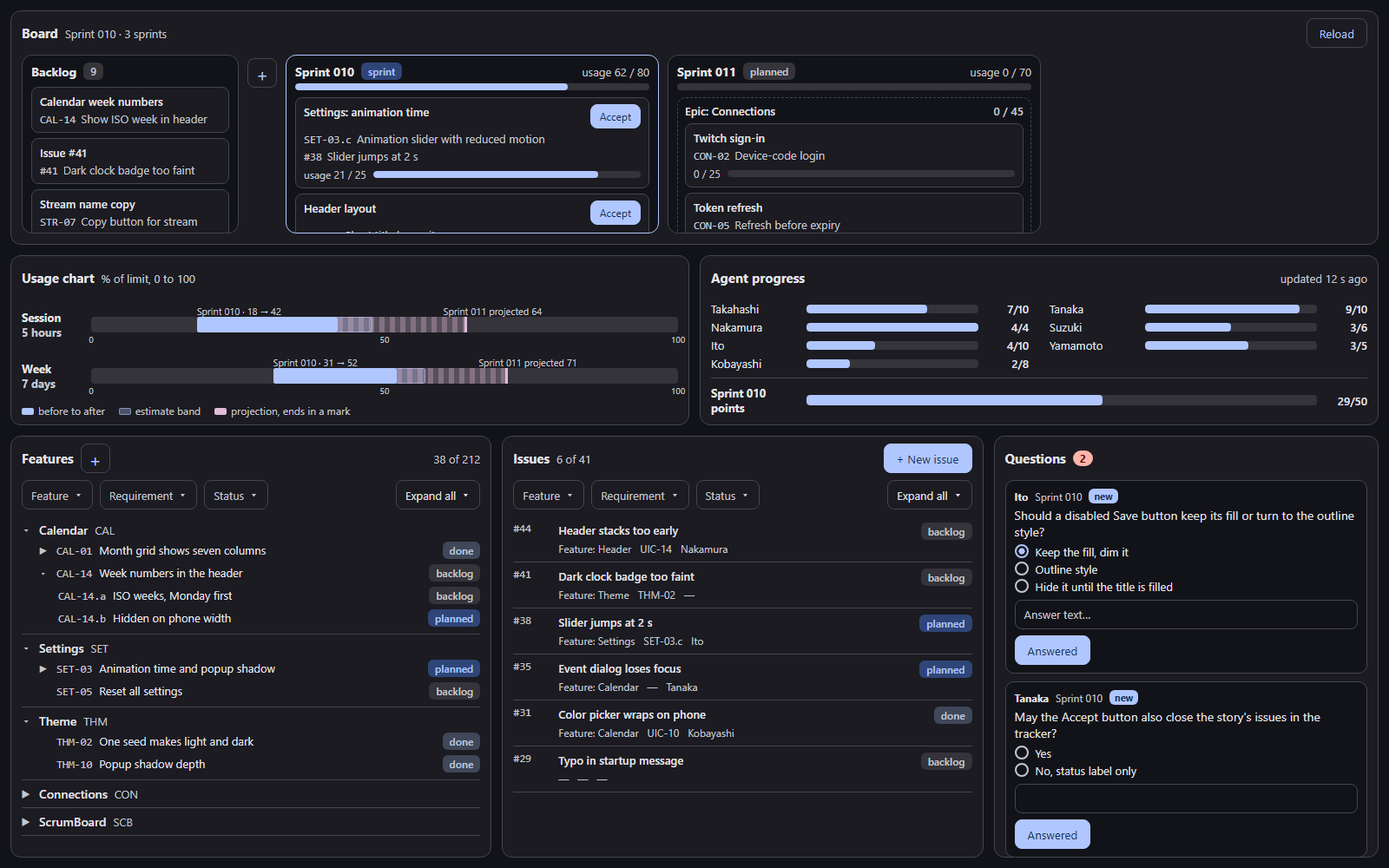
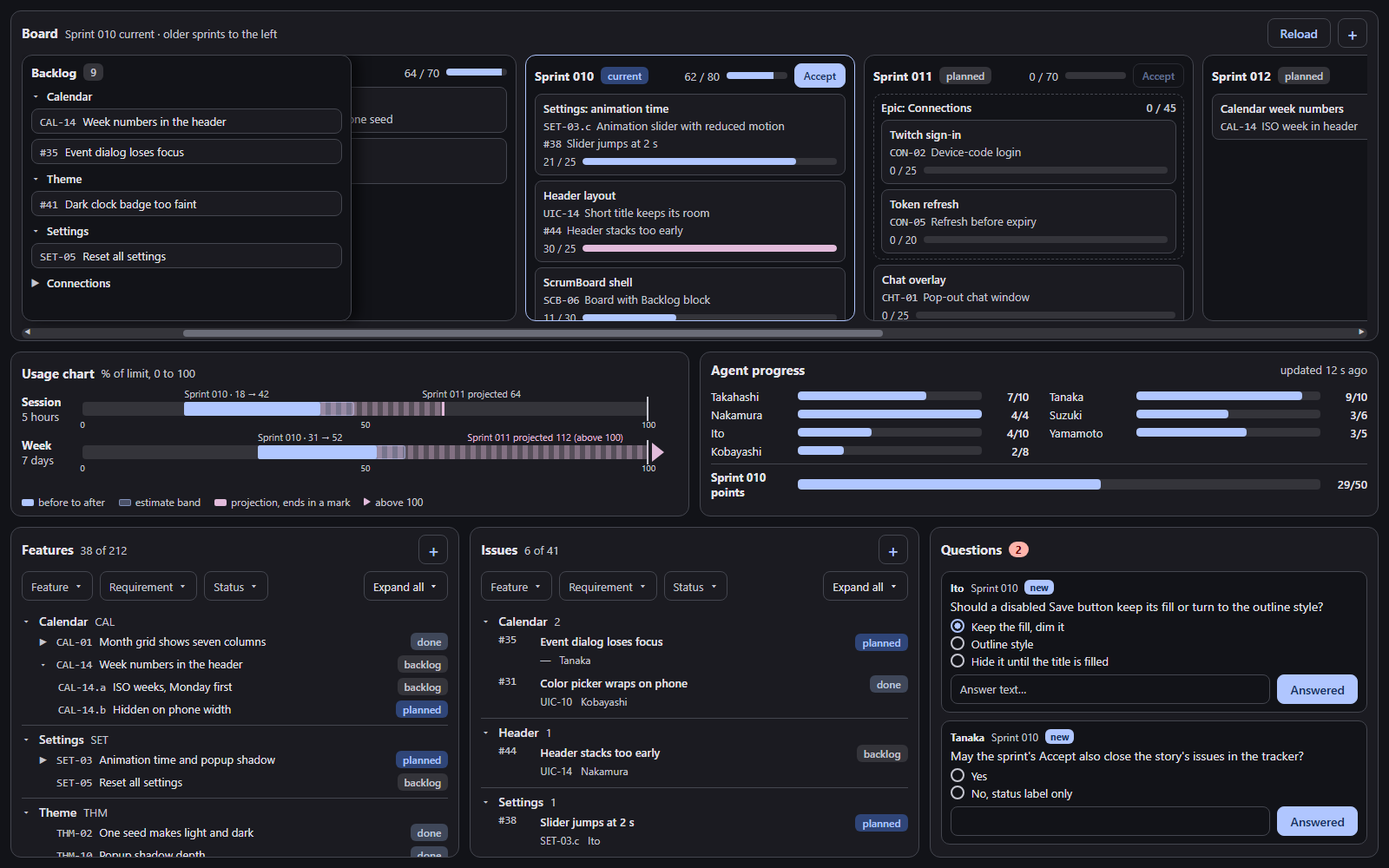
ScrumBoard mockup v2

diff --git a/scrum/scrumboard_mockup.html b/scrum/scrumboard_mockup.html
@@ -1,69 +1,81 @@
 <!doctype html>
-<html><head><meta charset="utf-8"><title>ScrumBoard mockup</title>
+<html><head><meta charset="utf-8"><title>ScrumBoard mockup v2</title>
 <style>
-:root{--bg:#121318;--card:#1b1b21;--soft:#34343a;--line:#44464f;--text:#e3e2e9;--muted:#c5c6d0;--accent:#b0c6ff;--onacc:#162e60;--ok:#bfc6dc;--okbg:#3f4759;--runbg:#2f4578;--warn:#e2bbdb;--warnbg:#5a3d55;--bad:#ffb4ab;--badbg:#93000a}
+:root{--bg:#121318;--card:#1b1b21;--soft:#34343a;--line:#44464f;--text:#e3e2e9;--muted:#c5c6d0;--accent:#b0c6ff;--onacc:#162e60;--ok:#bfc6dc;--okbg:#3f4759;--runbg:#2f4578;--warn:#e2bbdb;--warnbg:#5a3d55;--bad:#ffb4ab}
 *{box-sizing:border-box}
 html,body{margin:0;height:100%;overflow:hidden;background:var(--bg);color:var(--text);font:400 14px "IBM Plex Sans","Segoe UI",system-ui,sans-serif}
-.page{width:1600px;height:1000px;padding:12px;display:grid;grid-template-rows:270px 196px 1fr;gap:12px}
-.panel{background:var(--card);border:1px solid var(--line);border-radius:12px;min-height:0;min-width:0;display:flex;flex-direction:column}
-.ph{display:flex;align-items:center;gap:8px;padding:8px 12px;min-height:50px}
+.page{width:1600px;height:1000px;padding:12px;display:grid;grid-template-rows:2fr 1fr 2fr;gap:12px}
+.panel{background:var(--card);border:1px solid var(--line);border-radius:12px;min-height:0;min-width:0;display:flex;flex-direction:column;position:relative}
+.ph{display:flex;align-items:center;gap:8px;padding:8px 12px;min-height:50px;flex:none}
 .ph h2{margin:0;font-size:15px;font-weight:700;flex:none}
 .note{font-size:13px;color:var(--muted)}
-.btn{height:34px;border-radius:8px;border:1px solid var(--line);background:transparent;color:var(--accent);font:600 14px inherit;font-family:inherit;padding:0 14px;display:inline-flex;align-items:center;gap:6px;flex:none}
+.sp{flex:1}
+.btn{height:34px;border-radius:8px;border:1px solid var(--line);background:transparent;color:var(--accent);font-family:inherit;font-weight:600;font-size:14px;padding:0 14px;display:inline-flex;align-items:center;gap:6px;flex:none}
 .btn.fill{background:var(--accent);color:var(--onacc);border-color:var(--accent)}
-.btn.sq{width:34px;padding:0;justify-content:center;font-size:20px}
+.btn.sq{width:34px;padding:0;justify-content:center;font-size:20px;font-weight:500}
 .sel{height:34px;border:1px solid var(--line);border-radius:8px;padding:0 10px;display:inline-flex;align-items:center;gap:6px;color:var(--muted);font-size:13px;flex:none}
 .sel:after{content:"\25BE"}
 .chip{display:inline-block;font-size:12px;font-weight:600;border-radius:6px;padding:2px 8px;flex:none}
 .c-backlog{background:var(--soft);color:var(--muted)}.c-planned{background:var(--runbg);color:var(--accent)}.c-done{background:var(--okbg);color:var(--ok)}
-.mono{font-family:"IBM Plex Mono",Consolas,monospace;font-size:12.5px;color:var(--muted)}
+.mono{font-family:"IBM Plex Mono",Consolas,monospace;font-size:12.5px;color:var(--muted);flex:none}
 .scroll{overflow-y:auto;min-height:0;flex:1;padding:0 12px 10px}
 ::-webkit-scrollbar{width:8px}::-webkit-scrollbar-thumb{background:var(--line);border-radius:4px}
 /* board */
-.board{display:flex;gap:10px;padding:0 12px 12px;align-items:stretch;flex:1;min-height:0;overflow-x:auto}
-.blk{background:var(--bg);border:1px solid var(--line);border-radius:12px;display:flex;flex-direction:column;min-height:0;flex:none}
-.blk>.bh{padding:8px 10px 4px;display:flex;align-items:center;gap:8px}
-.blk .bh b{font-size:14px}
-.blk .bd{overflow-y:auto;padding:4px 10px 10px;display:flex;flex-direction:column;gap:6px;min-height:0;flex:1}
-.story{background:var(--card);border:1px solid var(--line);border-radius:8px;padding:7px 9px;font-size:13px}
-.story .t{font-weight:600;display:flex;justify-content:space-between;gap:8px}
-.story .it{color:var(--muted);margin-top:3px;display:flex;gap:6px;align-items:baseline}
-.story .it .mono{flex:none}
+.bwrap{position:relative;flex:1;min-height:0;margin:0 12px 0;overflow:hidden}
+.backlog{position:absolute;left:0;top:0;bottom:22px;width:380px;z-index:3;box-shadow:8px 0 14px rgba(0,0,0,.55)}
+.tl{position:absolute;left:190px;top:0;bottom:22px;display:flex;gap:10px;z-index:1}
+.blk{background:var(--bg);border:1px solid var(--line);border-radius:12px;display:flex;flex-direction:column;min-height:0;flex:none;width:380px}
+.backlog{background:var(--bg);border:1px solid var(--line);border-radius:12px;display:flex;flex-direction:column;min-height:0}
+.bh{padding:9px 10px 5px;display:flex;align-items:center;gap:8px}
+.bh b{font-size:14px}
+.sm{width:70px;height:8px;border-radius:4px;background:var(--soft);position:relative;overflow:hidden;flex:none}
+.sm i{position:absolute;left:0;top:0;bottom:0;background:var(--accent)}
+.sm.warn i{background:var(--warn)}
+.bd{overflow-y:auto;padding:2px 10px 10px;display:flex;flex-direction:column;gap:6px;min-height:0;flex:1}
+.story{background:var(--card);border:1px solid var(--line);border-radius:8px;padding:7px 9px;font-size:13px;flex:none}
+.story .t{font-weight:600}
+.it{color:var(--muted);margin-top:3px;display:flex;gap:6px;align-items:baseline}
 .meter{height:8px;border-radius:4px;background:var(--soft);position:relative;overflow:hidden}
 .meter i{position:absolute;left:0;top:0;bottom:0;background:var(--accent);border-radius:4px}
 .meter.warn i{background:var(--warn)}
-.mrow{display:flex;align-items:center;gap:8px;font-size:12px;color:var(--muted)}
+.mrow{display:flex;align-items:center;gap:8px;font-size:12px;color:var(--muted);margin-top:5px}
 .mrow .meter{flex:1}
-.epic{border:1px dashed var(--line);border-radius:10px;padding:6px 8px;display:flex;flex-direction:column;gap:6px}
-.epic .eh{font-weight:600;font-size:13px;display:flex;justify-content:space-between}
-.acc{height:28px;font-size:12px;padding:0 10px;border-radius:8px}
-/* middle */
-.mid{display:grid;grid-template-columns:1fr 1fr;gap:12px;min-height:0}
-.meters{padding:0 12px 4px;display:grid;gap:2px;flex:1}
-.mt{display:grid;grid-template-columns:70px 1fr;align-items:center;gap:10px;font-size:13px}
-.axis{position:relative;height:46px}
-.track{position:absolute;left:0;right:0;top:14px;height:18px;background:var(--soft);border-radius:4px}
-.seg{position:absolute;top:14px;height:18px;border-radius:3px}
+.epic{border:1px dashed var(--line);border-radius:10px;padding:6px 8px;display:flex;flex-direction:column;gap:6px;flex:none}
+.eh{font-weight:600;font-size:13px;display:flex;justify-content:space-between;gap:8px}
+.acc{height:28px;font-size:12px;padding:0 10px}
+.hsb{position:absolute;left:0;right:0;bottom:2px;height:12px;background:var(--soft);border-radius:6px;z-index:4}
+.hsb i{position:absolute;left:12%;width:52%;top:2px;bottom:2px;background:var(--line);border-radius:4px;background:#6b6d78}
+.hsb:before{content:"\25C0";position:absolute;left:3px;top:-2px;font-size:8px;color:var(--muted)}
+.hsb:after{content:"\25B6";position:absolute;right:3px;top:-2px;font-size:8px;color:var(--muted)}
+.fi{display:flex;gap:8px;align-items:baseline;font-size:13px;background:var(--card);border:1px solid var(--line);border-radius:8px;padding:5px 9px;flex:none}
+.fi .s{flex:1}
+.fh2{font-weight:600;font-size:13px;display:flex;align-items:center;gap:6px;padding-top:2px}
+/* usage */
+.meters{padding:0 12px 0;display:flex;flex-direction:column;gap:0;flex:1;min-height:0}
+.mt{display:grid;grid-template-columns:62px 1fr;align-items:center;gap:8px;font-size:13px;height:50px}
+.axis{position:relative;height:46px;margin-right:34px}
+.track{position:absolute;left:0;right:0;top:15px;height:16px;background:var(--soft);border-radius:4px}
+.seg{position:absolute;top:15px;height:16px;border-radius:3px}
 .bar{background:var(--accent)}.est{background:rgba(176,198,255,.32);border:1px solid rgba(176,198,255,.55)}
 .proj{background:repeating-linear-gradient(90deg,rgba(226,187,219,.45) 0 6px,rgba(226,187,219,.2) 6px 12px);border-right:3px solid var(--warn);border-radius:3px 0 0 3px}
-.lab{position:absolute;font-size:11px;color:var(--muted);white-space:nowrap}
-.tick{position:absolute;top:33px;font-size:10px;color:var(--muted);transform:translateX(-50%)}
-.legend{display:flex;gap:16px;font-size:12px;color:var(--muted);padding:0 12px 8px;align-items:center}
+.line100{position:absolute;right:0;top:9px;height:28px;border-right:2px solid var(--muted)}
+.tri{position:absolute;left:100%;top:12px;margin-left:4px;width:0;height:0;border-top:11px solid transparent;border-bottom:11px solid transparent;border-left:14px solid var(--warn)}
+.lab{position:absolute;font-size:11px;color:var(--muted);white-space:nowrap;top:-2px}
+.tick{position:absolute;top:34px;font-size:10px;color:var(--muted);transform:translateX(-50%)}
+.legend{display:flex;gap:16px;font-size:12px;color:var(--muted);padding:2px 12px 8px;align-items:center;flex:none}
 .legend s{display:inline-block;width:14px;height:8px;margin-right:5px;border-radius:2px;text-decoration:none}
-.ag{display:grid;grid-template-columns:100px 1fr 48px;align-items:center;gap:10px;padding:2px 0;font-size:13px}
-.ag .meter{height:10px}
-.ag .n{text-align:right;font-weight:600}
+.ag{display:grid;grid-template-columns:90px 1fr 44px;align-items:center;gap:10px;padding:2px 0;font-size:13px}
+.ag .meter{height:10px}.ag .n{text-align:right;font-weight:600}
 /* bottom */
-.bot{display:grid;grid-template-columns:1.25fr 1.25fr 1fr;gap:12px;min-height:0}
-.frow{display:flex;gap:8px;padding:0 12px 8px;align-items:center}
+.bot{display:grid;grid-template-columns:repeat(3,minmax(0,1fr));gap:12px;min-height:0}
+.frow{display:flex;gap:8px;padding:0 12px 8px;align-items:center;flex:none}
 .feat{padding:6px 0;border-bottom:1px solid var(--line)}
-.feat .fh{display:flex;align-items:center;gap:8px;font-weight:600}
-.tri{color:var(--muted);width:12px;font-size:11px;flex:none}
+.fh{display:flex;align-items:center;gap:8px;font-weight:600}
+.tg{color:var(--muted);width:12px;font-size:11px;flex:none}
 .req{display:flex;align-items:baseline;gap:8px;padding:4px 0 2px 20px;font-size:13px}
-.req.sub{padding-left:42px}
-.req .s{flex:1}
-.iss{display:grid;grid-template-columns:44px 1fr auto;gap:2px 8px;padding:7px 0;border-bottom:1px solid var(--line);font-size:13px}
-.iss .t{font-weight:600}.iss .m{grid-column:2/4;color:var(--muted);font-size:12px;display:flex;gap:10px;align-items:center}
+.req.sub{padding-left:42px}.req .s{flex:1}
+.iss{display:grid;grid-template-columns:40px 1fr auto;gap:2px 8px;padding:5px 0 5px 20px;font-size:13px}
+.iss .t{font-weight:600}.iss .m{grid-column:2/4;color:var(--muted);font-size:12px;display:flex;gap:10px}
 .badge{background:var(--bad);color:#690005;border-radius:10px;font-size:12px;font-weight:700;padding:1px 8px}
 .q{border:1px solid var(--line);border-radius:10px;padding:9px 10px;margin-bottom:9px;background:var(--bg)}
 .q .a{font-size:12px;color:var(--muted);display:flex;gap:8px;align-items:center}
@@ -71,76 +83,88 @@ html,body{margin:0;height:100%;overflow:hidden;background:var(--bg);color:var(--
 .ch{display:flex;flex-direction:column;gap:3px;margin-bottom:7px;font-size:13px}
 .ch span:before{content:"";display:inline-block;width:12px;height:12px;border:2px solid var(--muted);border-radius:50%;vertical-align:-2px;margin-right:8px}
 .ch span.on:before{border-color:var(--accent);background:radial-gradient(var(--accent) 40%,transparent 45%)}
-.ans{border:1px solid var(--line);border-radius:8px;height:34px;padding:7px 10px;color:var(--muted);font-size:13px;margin-bottom:7px}
-.ans.t{color:var(--text)}
+.arow{display:flex;gap:8px;align-items:center}
+.ans{flex:1;border:1px solid var(--line);border-radius:8px;height:34px;padding:7px 10px;color:var(--muted);font-size:13px}
 .new{background:var(--accent);color:var(--onacc);font-size:11px;font-weight:700;border-radius:6px;padding:1px 6px}
 </style></head><body>
 <div class="page">
 
-<!-- ROW 1: BOARD -->
+<!-- ROW 1: BOARD (40%) -->
 <div class="panel">
- <div class="ph"><h2>Board</h2><span class="note">Sprint 010 &middot; 3 sprints</span><span style="flex:1"></span><button class="btn">Reload</button></div>
- <div class="board">
-  <div class="blk" style="width:250px"><div class="bh"><b>Backlog</b><span class="chip c-backlog">9</span></div>
+ <div class="ph"><h2>Board</h2><span class="note">Sprint 010 current &middot; older sprints to the left</span><span class="sp"></span><button class="btn">Reload</button><button class="btn sq" title="Add block">+</button></div>
+ <div class="bwrap">
+  <div class="tl">
+   <!-- Sprint 009 peeks in from behind the Backlog -->
+   <div class="blk"><div class="bh"><b>Sprint 009</b><span class="chip c-done">accepted</span><span class="sp"></span><span class="note">64 / 70</span><div class="sm"><i style="width:91%"></i></div></div>
+    <div class="bd">
+     <div class="story"><div class="t">Theme seed and palettes</div><div class="it"><span class="mono">THM-02</span><span>Light and dark from one seed</span></div></div>
+     <div class="story"><div class="t">Popup shadow</div><div class="it"><span class="mono">THM-10</span><span>Depth setting</span></div></div>
+    </div></div>
+   <div class="blk" style="border-color:var(--accent)"><div class="bh"><b>Sprint 010</b><span class="chip c-planned">current</span><span class="sp"></span><span class="note">62 / 80</span><div class="sm"><i style="width:77%"></i></div><button class="btn fill acc">Accept</button></div>
+    <div class="bd">
+     <div class="story"><div class="t">Settings: animation time</div>
+       <div class="it"><span class="mono">SET-03.c</span><span>Animation slider with reduced motion</span></div>
+       <div class="it"><span class="mono">#38</span><span>Slider jumps at 2 s</span></div>
+       <div class="mrow"><span>21 / 25</span><div class="meter"><i style="width:84%"></i></div></div></div>
+     <div class="story"><div class="t">Header layout</div>
+       <div class="it"><span class="mono">UIC-14</span><span>Short title keeps its room</span></div>
+       <div class="it"><span class="mono">#44</span><span>Header stacks too early</span></div>
+       <div class="mrow"><span>30 / 25</span><div class="meter warn"><i style="width:100%"></i></div></div></div>
+     <div class="story"><div class="t">ScrumBoard shell</div>
+       <div class="it"><span class="mono">SCB-06</span><span>Board with Backlog block</span></div>
+       <div class="mrow"><span>11 / 30</span><div class="meter"><i style="width:37%"></i></div></div></div>
+    </div></div>
+   <div class="blk"><div class="bh"><b>Sprint 011</b><span class="chip c-backlog">planned</span><span class="sp"></span><span class="note">0 / 70</span><div class="sm"><i style="width:0"></i></div><button class="btn acc" style="opacity:.5">Accept</button></div>
+    <div class="bd">
+     <div class="epic"><div class="eh"><span>Epic: Connections</span><span class="note">0 / 45</span></div>
+      <div class="story"><div class="t">Twitch sign-in</div><div class="it"><span class="mono">CON-02</span><span>Device-code login</span></div><div class="mrow"><span>0 / 25</span><div class="meter"><i style="width:0"></i></div></div></div>
+      <div class="story"><div class="t">Token refresh</div><div class="it"><span class="mono">CON-05</span><span>Refresh before expiry</span></div><div class="mrow"><span>0 / 20</span><div class="meter"><i style="width:0"></i></div></div></div>
+     </div>
+     <div class="story"><div class="t">Chat overlay</div><div class="it"><span class="mono">CHT-01</span><span>Pop-out chat window</span></div><div class="mrow"><span>0 / 25</span><div class="meter"><i style="width:0"></i></div></div></div>
+    </div></div>
+   <div class="blk"><div class="bh"><b>Sprint 012</b><span class="chip c-backlog">planned</span><span class="sp"></span><span class="note">0 / 60</span><div class="sm"><i style="width:0"></i></div><button class="btn acc" style="opacity:.5">Accept</button></div>
+    <div class="bd"><div class="story"><div class="t">Calendar week numbers</div><div class="it"><span class="mono">CAL-14</span><span>ISO week in header</span></div></div></div></div>
+  </div>
+  <div class="backlog">
+   <div class="bh"><b>Backlog</b><span class="chip c-backlog">9</span></div>
    <div class="bd">
-    <div class="story"><div class="t"><span>Calendar week numbers</span></div><div class="it"><span class="mono">CAL-14</span><span>Show ISO week in header</span></div></div>
-    <div class="story"><div class="t"><span>Issue #41</span></div><div class="it"><span class="mono">#41</span><span>Dark clock badge too faint</span></div></div>
-    <div class="story"><div class="t"><span>Stream name copy</span></div><div class="it"><span class="mono">STR-07</span><span>Copy button for stream name</span></div></div>
-    <div class="story"><div class="t"><span>Issue #44</span></div><div class="it"><span class="mono">#44</span><span>Header stacks too early</span></div></div>
+    <div class="fh2"><span class="tg">&#9662;</span>Calendar</div>
+    <div class="fi"><span class="mono">CAL-14</span><span class="s">Week numbers in the header</span></div>
+    <div class="fi"><span class="mono">#35</span><span class="s">Event dialog loses focus</span></div>
+    <div class="fh2"><span class="tg">&#9662;</span>Theme</div>
+    <div class="fi"><span class="mono">#41</span><span class="s">Dark clock badge too faint</span></div>
+    <div class="fh2"><span class="tg">&#9662;</span>Settings</div>
+    <div class="fi"><span class="mono">SET-05</span><span class="s">Reset all settings</span></div>
+    <div class="fh2"><span class="tg">&#9654;</span>Connections</div>
    </div></div>
-  <button class="btn sq" style="align-self:flex-start;margin-top:4px" title="Add block">+</button>
-  <div class="blk" style="width:430px;border-color:var(--accent)"><div class="bh"><b>Sprint 010</b><span class="chip c-planned">sprint</span><span style="flex:1"></span><span class="note">usage 62 / 80</span></div>
-   <div style="padding:0 10px 4px"><div class="meter"><i style="width:77%"></i></div></div>
-   <div class="bd">
-    <div class="story"><div class="t"><span>Settings: animation time</span><button class="btn fill acc">Accept</button></div>
-      <div class="it"><span class="mono">SET-03.c</span><span>Animation slider with reduced motion</span></div>
-      <div class="it"><span class="mono">#38</span><span>Slider jumps at 2 s</span></div>
-      <div class="mrow" style="margin-top:5px"><span>usage 21 / 25</span><div class="meter"><i style="width:84%"></i></div></div></div>
-    <div class="story"><div class="t"><span>Header layout</span><button class="btn fill acc">Accept</button></div>
-      <div class="it"><span class="mono">UIC-14</span><span>Short title keeps its room</span></div>
-      <div class="mrow" style="margin-top:5px"><span>usage 30 / 25</span><div class="meter warn"><i style="width:100%"></i></div></div></div>
-    <div class="story"><div class="t"><span>ScrumBoard shell</span><button class="btn fill acc">Accept</button></div>
-      <div class="it"><span class="mono">SCB-06</span><span>Board with Backlog block</span></div>
-      <div class="mrow" style="margin-top:5px"><span>usage 11 / 30</span><div class="meter"><i style="width:37%"></i></div></div></div>
-   </div></div>
-  <div class="blk" style="width:430px"><div class="bh"><b>Sprint 011</b><span class="chip c-backlog">planned</span><span style="flex:1"></span><span class="note">usage 0 / 70</span></div>
-   <div style="padding:0 10px 4px"><div class="meter"><i style="width:0"></i></div></div>
-   <div class="bd">
-    <div class="epic"><div class="eh"><span>Epic: Connections</span><span class="note">0 / 45</span></div>
-      <div class="story"><div class="t"><span>Twitch sign-in</span></div><div class="it"><span class="mono">CON-02</span><span>Device-code login</span></div><div class="mrow" style="margin-top:5px"><span>0 / 25</span><div class="meter"><i style="width:0"></i></div></div></div>
-      <div class="story"><div class="t"><span>Token refresh</span></div><div class="it"><span class="mono">CON-05</span><span>Refresh before expiry</span></div><div class="mrow" style="margin-top:5px"><span>0 / 20</span><div class="meter"><i style="width:0"></i></div></div></div>
-    </div>
-    <div class="story"><div class="t"><span>Chat overlay</span></div><div class="it"><span class="mono">CHT-01</span><span>Pop-out chat window</span></div><div class="mrow" style="margin-top:5px"><span>0 / 25</span><div class="meter"><i style="width:0"></i></div></div></div>
-   </div></div>
+  <div class="hsb"><i></i></div>
  </div>
 </div>
 
-<!-- ROW 2 -->
-<div class="mid">
+<!-- ROW 2 (20%) -->
+<div style="display:grid;grid-template-columns:1fr 1fr;gap:12px;min-height:0">
  <div class="panel">
-  <div class="ph"><h2>Usage chart</h2><span class="note">% of limit, 0 to 100</span></div>
+  <div class="ph" style="min-height:40px;padding-bottom:0"><h2>Usage chart</h2><span class="note">% of limit, 0 to 100</span></div>
   <div class="meters">
-   <div class="mt"><b>Session<br><span class="note">5 hours</span></b>
-    <div class="axis"><div class="track"></div>
-     <div class="seg est" style="left:18%;width:30%"></div>
-     <div class="seg bar" style="left:18%;width:24%"></div>
-     <div class="lab" style="left:18%;top:0">Sprint 010 &middot; 18 &rarr; 42</div>
+   <div class="mt"><b>Session<br><span class="note" style="font-weight:400">5 hours</span></b>
+    <div class="axis"><div class="track"></div><div class="line100"></div>
+     <div class="seg est" style="left:18%;width:30%"></div><div class="seg bar" style="left:18%;width:24%"></div>
+     <div class="lab" style="left:18%">Sprint 010 &middot; 18 &rarr; 42</div>
      <div class="seg proj" style="left:42%;width:22%"></div>
-     <div class="lab" style="left:60%;top:0">Sprint 011 projected 64</div>
+     <div class="lab" style="left:60%">Sprint 011 projected 64</div>
      <div class="tick" style="left:0">0</div><div class="tick" style="left:50%">50</div><div class="tick" style="left:100%">100</div></div></div>
-   <div class="mt"><b>Week<br><span class="note">7 days</span></b>
-    <div class="axis"><div class="track"></div>
-     <div class="seg est" style="left:31%;width:26%"></div>
-     <div class="seg bar" style="left:31%;width:21%"></div>
-     <div class="lab" style="left:31%;top:0">Sprint 010 &middot; 31 &rarr; 52</div>
-     <div class="seg proj" style="left:52%;width:19%"></div>
-     <div class="lab" style="left:66%;top:0">Sprint 011 projected 71</div>
+   <div class="mt"><b>Week<br><span class="note" style="font-weight:400">7 days</span></b>
+    <div class="axis"><div class="track"></div><div class="line100"></div>
+     <div class="seg est" style="left:31%;width:26%"></div><div class="seg bar" style="left:31%;width:21%"></div>
+     <div class="lab" style="left:31%">Sprint 010 &middot; 31 &rarr; 52</div>
+     <div class="seg proj" style="left:52%;width:48%;border-right:0"></div><div class="tri"></div>
+     <div class="lab" style="left:68%;color:var(--warn)">Sprint 011 projected 112 (above 100)</div>
      <div class="tick" style="left:0">0</div><div class="tick" style="left:50%">50</div><div class="tick" style="left:100%">100</div></div></div>
   </div>
-  <div class="legend"><span><s style="background:var(--accent)"></s>before to after</span><span><s style="background:rgba(176,198,255,.32);border:1px solid rgba(176,198,255,.55)"></s>estimate band</span><span><s style="background:var(--warn)"></s>projection, ends in a mark</span></div>
+  <div class="legend"><span><s style="background:var(--accent)"></s>before to after</span><span><s style="background:rgba(176,198,255,.32);border:1px solid rgba(176,198,255,.55)"></s>estimate band</span><span><s style="background:var(--warn)"></s>projection, ends in a mark</span><span><s style="background:transparent;border-left:8px solid var(--warn);border-top:5px solid transparent;border-bottom:5px solid transparent;width:0;height:0"></s>above 100</span></div>
  </div>
  <div class="panel">
-  <div class="ph"><h2>Agent progress</h2><span style="flex:1"></span><span class="note">updated 12 s ago</span></div>
+  <div class="ph" style="min-height:40px"><h2>Agent progress</h2><span class="sp"></span><span class="note">updated 12 s ago</span></div>
   <div class="scroll" style="display:grid;grid-template-columns:1fr 1fr;column-gap:24px;align-content:start;grid-template-rows:repeat(4,auto) auto;grid-auto-flow:column">
    <div class="ag"><span>Takahashi</span><div class="meter"><i style="width:70%"></i></div><span class="n">7/10</span></div>
    <div class="ag"><span>Nakamura</span><div class="meter"><i style="width:100%"></i></div><span class="n">4/4</span></div>
@@ -149,43 +173,46 @@ html,body{margin:0;height:100%;overflow:hidden;background:var(--bg);color:var(--
    <div class="ag"><span>Tanaka</span><div class="meter"><i style="width:90%"></i></div><span class="n">9/10</span></div>
    <div class="ag"><span>Suzuki</span><div class="meter"><i style="width:50%"></i></div><span class="n">3/6</span></div>
    <div class="ag"><span>Yamamoto</span><div class="meter"><i style="width:60%"></i></div><span class="n">3/5</span></div>
-   <div></div>
-   <div class="ag" style="grid-column:1/3;grid-row:5;border-top:1px solid var(--line);margin-top:6px;padding-top:8px"><b>Sprint 010 points</b><div class="meter" style="height:12px"><i style="width:58%"></i></div><span class="n">29/50</span></div>
+   <div class="ag" style="grid-column:1/3;grid-row:5;border-top:1px solid var(--line);margin-top:4px;padding-top:6px"><b>Sprint 010 points</b><div class="meter" style="height:12px"><i style="width:58%"></i></div><span class="n">29/50</span></div>
   </div>
  </div>
 </div>
 
-<!-- ROW 3 -->
+<!-- ROW 3 (40%) -->
 <div class="bot">
  <div class="panel">
-  <div class="ph"><h2>Features</h2><button class="btn sq" title="New requirement">+</button><span style="flex:1"></span><span class="note">38 of 212</span></div>
-  <div class="frow"><span class="sel">Feature</span><span class="sel">Requirement</span><span class="sel">Status</span><span style="flex:1"></span><span class="sel" style="color:var(--text)">Expand all</span></div>
+  <div class="ph"><h2>Features</h2><span class="note">38 of 212</span><span class="sp"></span><button class="btn sq" title="New requirement">+</button></div>
+  <div class="frow"><span class="sel">Feature</span><span class="sel">Requirement</span><span class="sel">Status</span><span class="sp"></span><span class="sel" style="color:var(--text)">Expand all</span></div>
   <div class="scroll">
-   <div class="feat"><div class="fh"><span class="tri">&#9662;</span>Calendar <span class="note" style="font-weight:400">CAL</span></div>
-    <div class="req"><span class="tri">&#9654;</span><span class="mono">CAL-01</span><span class="s">Month grid shows seven columns</span><span class="chip c-done">done</span></div>
-    <div class="req"><span class="tri">&#9662;</span><span class="mono">CAL-14</span><span class="s">Week numbers in the header</span><span class="chip c-backlog">backlog</span></div>
+   <div class="feat"><div class="fh"><span class="tg">&#9662;</span>Calendar <span class="note" style="font-weight:400">CAL</span></div>
+    <div class="req"><span class="tg">&#9654;</span><span class="mono">CAL-01</span><span class="s">Month grid shows seven columns</span><span class="chip c-done">done</span></div>
+    <div class="req"><span class="tg">&#9662;</span><span class="mono">CAL-14</span><span class="s">Week numbers in the header</span><span class="chip c-backlog">backlog</span></div>
     <div class="req sub"><span class="mono">CAL-14.a</span><span class="s">ISO weeks, Monday first</span><span class="chip c-backlog">backlog</span></div>
     <div class="req sub"><span class="mono">CAL-14.b</span><span class="s">Hidden on phone width</span><span class="chip c-planned">planned</span></div></div>
-   <div class="feat"><div class="fh"><span class="tri">&#9662;</span>Settings <span class="note" style="font-weight:400">SET</span></div>
-    <div class="req"><span class="tri">&#9654;</span><span class="mono">SET-03</span><span class="s">Animation time and popup shadow</span><span class="chip c-planned">planned</span></div>
-    <div class="req"><span class="tri"></span><span class="mono">SET-05</span><span class="s">Reset all settings</span><span class="chip c-backlog">backlog</span></div></div>
-   <div class="feat"><div class="fh"><span class="tri">&#9662;</span>Theme <span class="note" style="font-weight:400">THM</span></div>
-    <div class="req"><span class="tri"></span><span class="mono">THM-02</span><span class="s">One seed makes light and dark</span><span class="chip c-done">done</span></div>
-    <div class="req"><span class="tri"></span><span class="mono">THM-10</span><span class="s">Popup shadow depth</span><span class="chip c-done">done</span></div></div>
-   <div class="feat"><div class="fh"><span class="tri">&#9654;</span>Connections <span class="note" style="font-weight:400">CON</span></div></div>
-   <div class="feat"><div class="fh"><span class="tri">&#9654;</span>ScrumBoard <span class="note" style="font-weight:400">SCB</span></div></div>
+   <div class="feat"><div class="fh"><span class="tg">&#9662;</span>Settings <span class="note" style="font-weight:400">SET</span></div>
+    <div class="req"><span class="tg">&#9654;</span><span class="mono">SET-03</span><span class="s">Animation time and popup shadow</span><span class="chip c-planned">planned</span></div>
+    <div class="req"><span class="tg"></span><span class="mono">SET-05</span><span class="s">Reset all settings</span><span class="chip c-backlog">backlog</span></div></div>
+   <div class="feat"><div class="fh"><span class="tg">&#9662;</span>Theme <span class="note" style="font-weight:400">THM</span></div>
+    <div class="req"><span class="tg"></span><span class="mono">THM-02</span><span class="s">One seed makes light and dark</span><span class="chip c-done">done</span></div>
+    <div class="req"><span class="tg"></span><span class="mono">THM-10</span><span class="s">Popup shadow depth</span><span class="chip c-done">done</span></div></div>
+   <div class="feat"><div class="fh"><span class="tg">&#9654;</span>Connections <span class="note" style="font-weight:400">CON</span></div></div>
+   <div class="feat"><div class="fh"><span class="tg">&#9654;</span>ScrumBoard <span class="note" style="font-weight:400">SCB</span></div></div>
   </div>
  </div>
  <div class="panel">
-  <div class="ph"><h2>Issues</h2><span class="note">6 of 41</span><span style="flex:1"></span><button class="btn fill">+ New issue</button></div>
-  <div class="frow"><span class="sel">Feature</span><span class="sel">Requirement</span><span class="sel">Status</span><span style="flex:1"></span><span class="sel" style="color:var(--text)">Expand all</span></div>
+  <div class="ph"><h2>Issues</h2><span class="note">6 of 41</span><span class="sp"></span><button class="btn sq" title="New issue">+</button></div>
+  <div class="frow"><span class="sel">Feature</span><span class="sel">Requirement</span><span class="sel">Status</span><span class="sp"></span><span class="sel" style="color:var(--text)">Expand all</span></div>
   <div class="scroll">
-   <div class="iss"><span class="mono">#44</span><span class="t">Header stacks too early</span><span class="chip c-backlog">backlog</span><span class="m"><span>Feature: Header</span><span>UIC-14</span><span>Nakamura</span></span></div>
-   <div class="iss"><span class="mono">#41</span><span class="t">Dark clock badge too faint</span><span class="chip c-backlog">backlog</span><span class="m"><span>Feature: Theme</span><span>THM-02</span><span>&mdash;</span></span></div>
-   <div class="iss"><span class="mono">#38</span><span class="t">Slider jumps at 2 s</span><span class="chip c-planned">planned</span><span class="m"><span>Feature: Settings</span><span>SET-03.c</span><span>Ito</span></span></div>
-   <div class="iss"><span class="mono">#35</span><span class="t">Event dialog loses focus</span><span class="chip c-planned">planned</span><span class="m"><span>Feature: Calendar</span><span>&mdash;</span><span>Tanaka</span></span></div>
-   <div class="iss"><span class="mono">#31</span><span class="t">Color picker wraps on phone</span><span class="chip c-done">done</span><span class="m"><span>Feature: Calendar</span><span>UIC-10</span><span>Kobayashi</span></span></div>
-   <div class="iss"><span class="mono">#29</span><span class="t">Typo in startup message</span><span class="chip c-backlog">backlog</span><span class="m"><span>&mdash;</span><span>&mdash;</span><span>&mdash;</span></span></div>
+   <div class="feat"><div class="fh"><span class="tg">&#9662;</span>Calendar <span class="note" style="font-weight:400">2</span></div>
+    <div class="iss"><span class="mono">#35</span><span class="t">Event dialog loses focus</span><span class="chip c-planned">planned</span><span class="m"><span>&mdash;</span><span>Tanaka</span></span></div>
+    <div class="iss"><span class="mono">#31</span><span class="t">Color picker wraps on phone</span><span class="chip c-done">done</span><span class="m"><span>UIC-10</span><span>Kobayashi</span></span></div></div>
+   <div class="feat"><div class="fh"><span class="tg">&#9662;</span>Header <span class="note" style="font-weight:400">1</span></div>
+    <div class="iss"><span class="mono">#44</span><span class="t">Header stacks too early</span><span class="chip c-backlog">backlog</span><span class="m"><span>UIC-14</span><span>Nakamura</span></span></div></div>
+   <div class="feat"><div class="fh"><span class="tg">&#9662;</span>Settings <span class="note" style="font-weight:400">1</span></div>
+    <div class="iss"><span class="mono">#38</span><span class="t">Slider jumps at 2 s</span><span class="chip c-planned">planned</span><span class="m"><span>SET-03.c</span><span>Ito</span></span></div></div>
+   <div class="feat"><div class="fh"><span class="tg">&#9654;</span>Theme <span class="note" style="font-weight:400">1</span></div></div>
+   <div class="feat"><div class="fh"><span class="tg">&#9654;</span>Connections <span class="note" style="font-weight:400">3</span></div></div>
+   <div class="iss" style="padding-left:0"><span class="mono">#29</span><span class="t">Typo in startup message</span><span class="chip c-backlog">backlog</span><span class="m"><span>&mdash;</span><span>&mdash;</span></span></div>
   </div>
  </div>
  <div class="panel">
@@ -194,11 +221,11 @@ html,body{margin:0;height:100%;overflow:hidden;background:var(--bg);color:var(--
    <div class="q"><div class="a"><b style="color:var(--text)">Ito</b><span>Sprint 010</span><span class="new">new</span></div>
     <p>Should a disabled Save button keep its fill or turn to the outline style?</p>
     <div class="ch"><span class="on">Keep the fill, dim it</span><span>Outline style</span><span>Hide it until the title is filled</span></div>
-    <div class="ans">Answer text&hellip;</div><button class="btn fill">Answered</button></div>
+    <div class="arow"><div class="ans">Answer text&hellip;</div><button class="btn fill">Answered</button></div></div>
    <div class="q"><div class="a"><b style="color:var(--text)">Tanaka</b><span>Sprint 010</span><span class="new">new</span></div>
-    <p>May the Accept button also close the story's issues in the tracker?</p>
+    <p>May the sprint's Accept also close the story's issues in the tracker?</p>
     <div class="ch"><span>Yes</span><span>No, status label only</span></div>
-    <div class="ans"></div><button class="btn fill">Answered</button></div>
+    <div class="arow"><div class="ans"></div><button class="btn fill">Answered</button></div></div>
   </div>
  </div>
 </div>
